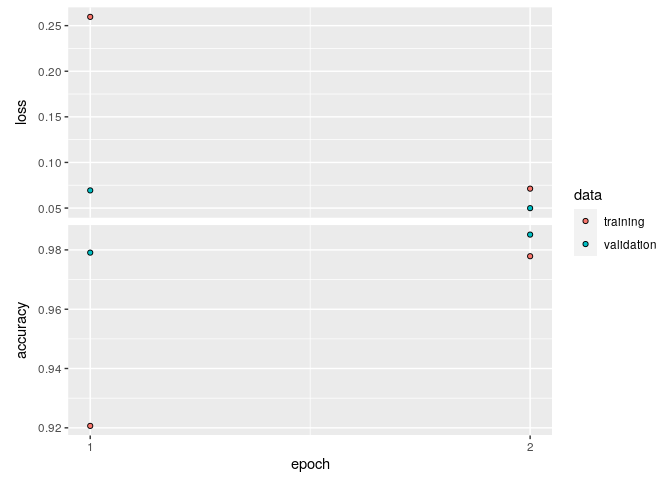
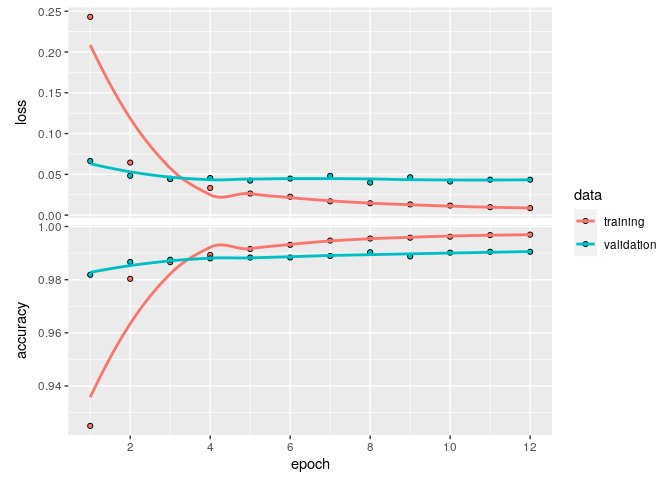
Train on more epochs

diff --git a/mnist-digits-recognition/mnist-cnn.md b/mnist-digits-recognition/mnist-cnn.md
@@ -46,7 +46,7 @@ y_test <- mnist$test$y
 ``` r
 batch_size <- 128
 num_classes <- 10
-epochs_n <- 2 # 99.25% test accuracy after 12 epochs
+epochs_n <- 12 # 99.25% test accuracy after 12 epochs
 ```
 
 ### Split dataset into the train and test sets
@@ -144,13 +144,13 @@ scores <- model %>% evaluate(
 print(sprintf("Loss: %f", scores[[1]]))
 ```
 
-    ## [1] "Loss: 0.043215"
+    ## [1] "Loss: 0.034143"
 
 ``` r
 print(sprintf("Accuracy: %f", scores[[2]]))
 ```
 
-    ## [1] "Accuracy: 0.985700"
+    ## [1] "Accuracy: 0.990800"
 
 ### References
 
